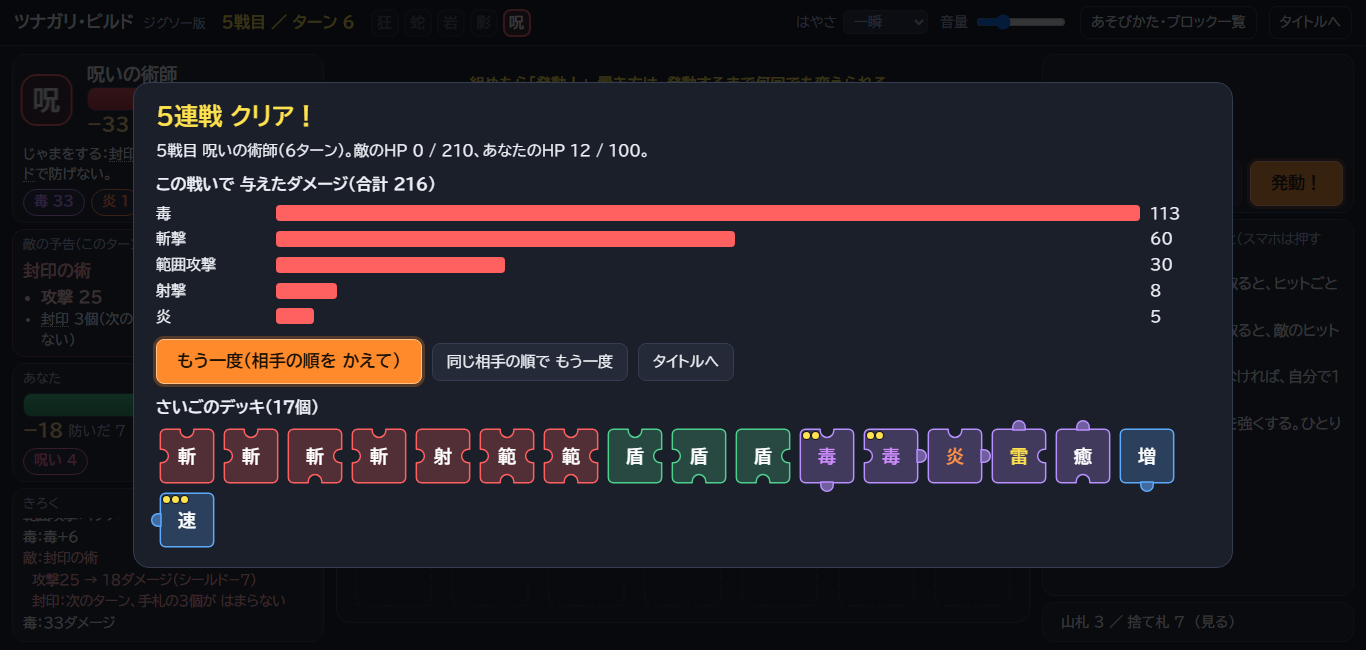
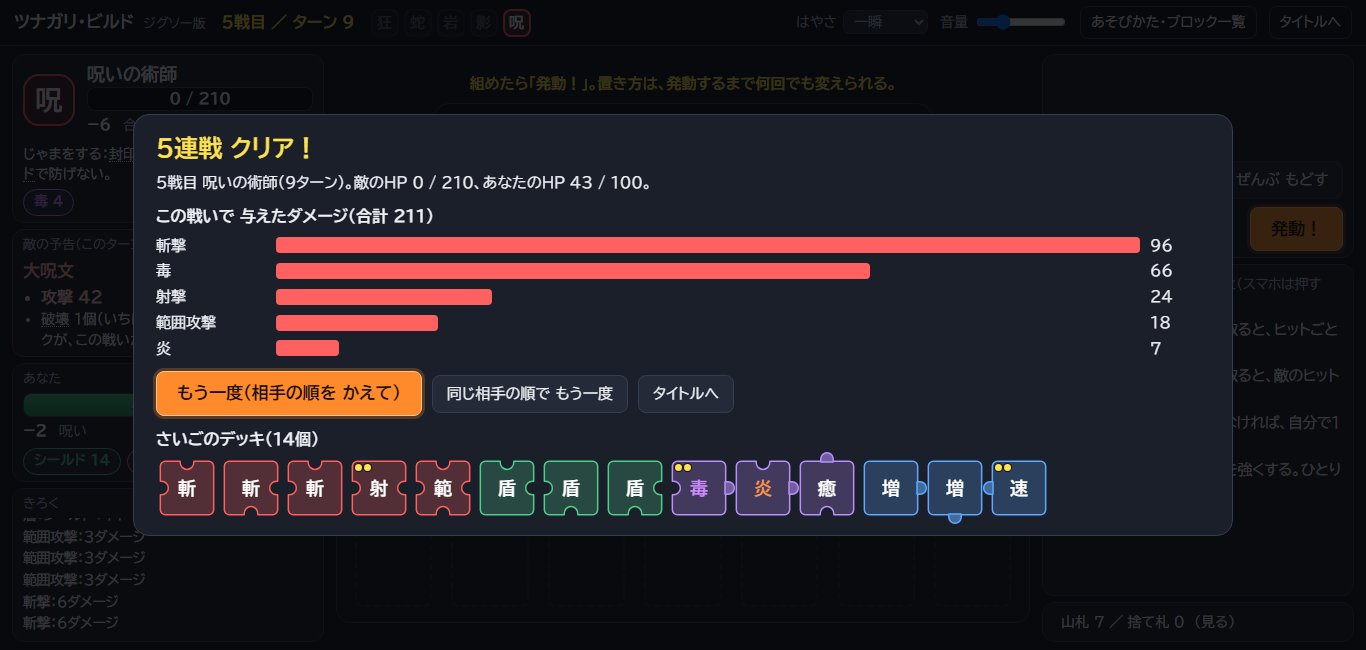
ブロックを いつでも回せるようにする（本人の答え 1A）。?rot=1 の切りかえは消して固定
- えらんだブロックを もう一度押す・右クリック・R キー・「回す ↻」ボタンで、時計回りに90度
- ごほうびの「はまる凹：デッキに○か所」は、回せると意味がないので、系統の説明に置きかえ
- 自動プレイも、人と同じ操作（えらんで もう一度押す）で回す。回す操作の検査場面を足した
- 敵の強さは まだ合わせていない（このあと）

diff --git a/ui.js b/ui.js
@@ -1,8 +1,8 @@
 /*
  * ui.js — 画面（ジグソー版 v2）。ルール(rules.js)が返す出来事ログを再生するだけ。条件や数字は、ここで書き直さない。
- * URL: ?seed=数 / ?enemy=golem|hunter|hydra|mage|berserk（1戦だけ。&stage=0〜4）/ ?speed=0 / ?mute=1 / ?rot=1（ブロックを回せる。くらべる用）
+ * URL: ?seed=数 / ?enemy=golem|hunter|hydra|mage|berserk（1戦だけ。&stage=0〜4）/ ?speed=0 / ?mute=1
  *      ?hp=数（れんしゅうを そのHPで始める。検査用）
- *      ?auto=1（ボットが画面を通して遊ぶ・無音）&bot=smart|random… &picks=sim（ごほうびを ためしてから選ぶ）&stop=ターン &pick=1 &screen=reward|remove|help|deck|tip（&tip=キー）&scene=thorn（攻撃を1個だけ置く）| terms（ことばの説明を全部 出す）
+ *      ?auto=1（ボットが画面を通して遊ぶ・無音）&bot=smart|random… &picks=sim（ごほうびを ためしてから選ぶ）&stop=ターン &pick=1 &screen=reward|remove|help|deck|tip（&tip=キー）&scene=thorn（攻撃を1個だけ置く）| terms（ことばの説明を全部 出す）| rotate（回す操作）
  */
 (function () {
   'use strict';
@@ -10,7 +10,7 @@
   const $ = s => document.querySelector(s);
   const el = (tag, cls, html) => { const e = document.createElement(tag); if (cls) e.className = cls; if (html != null) e.innerHTML = html; return e; };
   const Q = new URLSearchParams(location.search);
-  const AUTO = Q.get('auto') === '1', MUTE = AUTO || Q.get('mute') === '1', ROT = Q.get('rot') === '1';
+  const AUTO = Q.get('auto') === '1', MUTE = AUTO || Q.get('mute') === '1';
   const STOP = Q.has('stop') ? +Q.get('stop') : 0, SCREEN = Q.get('screen') || '';
   const FAM_COLOR = { atk: 'var(--atk)', def: 'var(--def)', abil: 'var(--abil)', enh: 'var(--enh)' };
   const SRC_NAMES = { fire: '炎', chase: '追撃', consume: '毒消費', poison: '毒', shock: '感電', mirror: '反射', charge: 'たまり' };
@@ -20,7 +20,7 @@
     speed: Q.has('speed') ? +Q.get('speed') : (AUTO ? 0 : 1), seed: Q.has('seed') ? (+Q.get('seed') | 0) : ((Date.now() % 90000) + 1),
     turnSum: { e: 0, p: 0 }, gone: {},
   };
-  const CHECK = { turns: 0, fights: 0, mismatches: [], errors: [], done: false, stopped: false, result: null, linkChecks: 0, spotChecks: 0, tipChecks: 0, tipSeen: {}, screens: {},
+  const CHECK = { rotates: 0, turns: 0, fights: 0, mismatches: [], errors: [], done: false, stopped: false, result: null, linkChecks: 0, spotChecks: 0, tipChecks: 0, tipSeen: {}, screens: {},
                   layout: { samples: 0, overlaps: 0, offscreen: 0, clipped: 0, pageScroll: 0, notes: [] } };
   window.__check = CHECK; window.__G = G;
   window.addEventListener('error', e => CHECK.errors.push(String(e.message)));
@@ -114,7 +114,7 @@
   const lvOf = type => R.lvOf(D() ? D().lv : (G.run ? G.run.lv : {}), type);
 
   // ------------------------------------------------------------ タイトル
-  function previewOrder() { return R.newRun(G.seed, { rot: ROT }).order; }
+  function previewOrder() { return R.newRun(G.seed).order; }
   function renderTitle() {
     const rules = $('#title-rules'); rules.innerHTML = '';
     const RULES = [
@@ -142,16 +142,15 @@
     renderTitle();
   }
   function startRun() {
-    G.mode = 'run'; G.run = R.newRun(G.seed, { rot: ROT }); G.s = G.run.fight; enterBattle();
+    G.mode = 'run'; G.run = R.newRun(G.seed); G.s = G.run.fight; enterBattle();
   }
   function startOne(id, stage) {
     G.mode = 'one'; G.run = null;
-    G.s = R.newFight({ enemyId: id, stage: stage || 0, seed: G.seed, rot: ROT, hp: Q.has('hp') ? Math.max(1, +Q.get('hp') | 0) : 0 }); enterBattle(); // ?hp=数 … 検査用
+    G.s = R.newFight({ enemyId: id, stage: stage || 0, seed: G.seed, hp: Q.has('hp') ? Math.max(1, +Q.get('hp') | 0) : 0 }); enterBattle(); // ?hp=数 … 検査用
   }
   function enterBattle() {
     G.sel = null; G.busy = false; G.view = null; G.pre = null; G.turnSum = { e: 0, p: 0 }; G.hoverId = null;
     $('#title-screen').hidden = true; $('#battle').hidden = false; $('#sheet').hidden = true; $('#btn-quit').hidden = false;
-    $('#btn-rot').hidden = !ROT;
     $('#log').innerHTML = ''; $('#enemy-dmg').innerHTML = ''; $('#player-dmg').innerHTML = '';
     const e = R.ENEMIES[G.s.enemyId];
     $('#enemy-glyph').textContent = e.g; $('#enemy-name').textContent = e.name; $('#enemy-trait').innerHTML = tipify(e.trait);
@@ -269,7 +268,7 @@
   function renderGuide() {
     const s = G.s; let t;
     if (G.busy) t = '発動中…';
-    else if (G.sel != null) t = '置くマスを押す。黄色いマスは「はまる」所（数字は はまる数）。';
+    else if (G.sel != null) t = '置くマスを押す。黄色いマスは「はまる」所（数字は はまる数）。えらんだブロックを もう一度押すと 回る（右クリック・R でも）。';
     else if (s.board.every(x => x == null)) t = '手札のブロックを 盤面に置こう（ドラッグ。または、えらんでからマスを押す）。';
     else t = '組めたら「発動！」。置き方は、発動するまで何回でも変えられる。';
     $('#guide').textContent = t;
@@ -300,7 +299,7 @@
   }
 
   // ------------------------------------------------------------ 操作（置き方は、発動するまで何回でも変えられる）
-  function uiSelect(id) { if (G.busy) return; G.sel = G.sel === id ? null : id; renderAll(); }
+  function uiSelect(id) { if (G.busy) return; if (G.sel === id) { uiRotate(); return; } G.sel = id; renderAll(); } // えらんだブロックを もう一度押すと回る
   function uiPut(id, cell) {
     if (G.busy) return false;
     const before = R.derive(G.s).links.filter(l => l.ok).length;
@@ -313,7 +312,14 @@
   }
   function uiTake(id) { if (G.busy || !R.take(G.s, id)) return false; G.sel = null; renderAll(); return true; }
   function uiClear() { if (G.busy) return; R.clearBoard(G.s); G.sel = null; renderAll(); }
-  function uiRotate() { if (G.busy || G.sel == null) return; if (R.rotate(G.s, G.sel)) renderAll(); }
+  function uiRotate(id) {
+    if (id == null) id = G.sel;
+    if (G.busy || id == null || !R.rotate(G.s, id)) return false;
+    renderAll(); sfx('place');
+    const p = document.querySelector(`#board .pc[data-id="${id}"], #hand .pc[data-id="${id}"]`); if (p) p.classList.add('fx-turn');
+    if (drag && drag.on && drag.id === id) { const g = $('#drag-ghost'); g.innerHTML = ''; g.appendChild(pieceEl(G.s.cards[id], { lv: lvOf(G.s.cards[id].type) })); }
+    return true;
+  }
   function clickPiece(id) {
     if (G.busy) return;
     const cell = R.cellOf(G.s, id);
@@ -367,6 +373,7 @@
     if (G.busy || Date.now() - lastDragEnd < 250) return;
     const p = ev.target.closest('.pc'); if (p) { clickPiece(+p.dataset.id); return; }
     if (G.sel != null && R.cellOf(G.s, G.sel) >= 0) uiTake(G.sel); // 盤面のブロックをえらんで手札の所を押す：もどす
+    else if (G.sel != null) { G.sel = null; renderAll(); } // 手札のすきまを押す：えらぶのをやめる
   });
   // のせたら説明、マスにのせたら予想の変化
   document.addEventListener('pointerover', ev => {
@@ -379,7 +386,12 @@
   });
   $('#btn-end').addEventListener('click', () => doEnd());
   $('#btn-clear').addEventListener('click', uiClear);
-  $('#btn-rot').addEventListener('click', uiRotate);
+  $('#btn-rot').addEventListener('click', () => uiRotate());
+  // 右クリックで回す（えらんでいなくても、そのブロックが回る）
+  document.addEventListener('contextmenu', ev => {
+    const p = ev.target.closest && ev.target.closest('#board .pc, #hand .pc'); if (!p || !G.s) return;
+    ev.preventDefault(); if (!G.busy) uiRotate(+p.dataset.id);
+  });
   $('#btn-quit').addEventListener('click', showTitle);
   $('#btn-start').addEventListener('click', startRun);
   $('#btn-reroll').addEventListener('click', () => { G.seed = (G.seed * 7 + 13) % 90000 + 1; renderTitle(); });
@@ -389,7 +401,7 @@
   $('#vol').addEventListener('input', e => { vol = +e.target.value / 100; });
   document.addEventListener('keydown', e => {
     if (e.key === 'Escape') { $('#help').hidden = true; if (G.s && !G.busy && $('#sheet').dataset.kind === 'deck') $('#sheet').hidden = true; if (G.s && !G.busy) { G.sel = null; renderAll(); } }
-    if ((e.key === 'r' || e.key === 'R') && ROT) uiRotate();
+    if (e.key === 'r' || e.key === 'R') uiRotate(drag && drag.on ? drag.id : null);
   });
   window.addEventListener('resize', () => { if (G.s && !$('#battle').hidden) renderAll(); });
   if (Q.has('speed')) { const o = [...$('#speed').options].find(x => +x.value === G.speed); if (o) $('#speed').value = o.value; }
@@ -506,13 +518,12 @@
       const c = el('button', 'opt'); c.dataset.opt = i;
       const top = el('div', 'otop'), op = el('div', 'op'); op.appendChild(pieceEl({ type: o.type, rot: o.up ? 0 : o.rot }, { lv: o.up ? o.lv : cur, name: false }));
       top.appendChild(op);
-      const fit = o.up ? null : R.fitCount(run.deck, o);
       top.appendChild(el('div', '', `<div class="ok">${o.up ? `レベルアップ Lv${cur} → Lv${o.lv}` : '新しいブロック'}</div><div class="on">${def.name} <span class="fam" style="background:${FAM_COLOR[def.fam]}">${R.FAMS[def.fam]}</span></div>`));
       c.appendChild(top);
       c.appendChild(el('div', 'ot', tipify(R.blockText(o.type, o.up ? o.lv : cur))));
       if (def.kw) c.appendChild(el('div', 'os', `${R.KW[def.kw].name}：${R.KW[def.kw].text}`));
       c.appendChild(el('div', 'os', o.up ? `デッキの${def.name}（${run.deck.filter(k => k.type === o.type).length}個）が ぜんぶ強くなる。前：${R.blockText(o.type, cur)}`
-        : def.fam === 'atk' || def.fam === 'def' ? `この凹に はまる凸：デッキに ${fit.take}個` : `この凸が はまる凹：デッキに ${fit.give}か所`));
+        : R.FAM_HINT[def.fam]));
       c.addEventListener('click', () => pickReward(i));
       body.querySelector('#opts').appendChild(c);
     });
@@ -676,7 +687,7 @@
   }
   // 「はまるマスの数字」を1つ えらんで、本当に置いて、その数だけ はまるかを見る
   function checkSpot(id, cell) {
-    uiSelect(id);
+    if (G.sel !== id) uiSelect(id); // もう えらんでいれば そのまま（もう一度押すと回ってしまう）
     const c = cellEl(cell), shown = c && c.classList.contains('lk-good') ? +c.dataset.spot : 0;
     uiPut(id, cell);
     const d = R.derive(G.s), real = d.links.filter(l => l.ok && (l.from === cell || l.to === cell)).length;
@@ -700,6 +711,20 @@
           R.put(s, s.hand[0], 11); renderAll(); checkTips(true); sampleLayout();
           CHECK.stopped = true; writeCheck(); return;
         }
+        if (Q.get('scene') === 'rotate') { // 決まった場面：回す操作3つ（右クリック・R キー・「回す」ボタン）と、もう一度押す
+          const id = s.hand[0], r0 = s.cards[id].rot, want = k => (r0 + k) & 3;
+          const p = () => document.querySelector(`#hand .pc[data-id="${id}"]`);
+          p().dispatchEvent(new MouseEvent('contextmenu', { bubbles: true, cancelable: true }));
+          if (s.cards[id].rot !== want(1)) miss('右クリックで回らない');
+          if (G.sel != null) miss('右クリックで えらんだことになった');
+          uiSelect(id); document.dispatchEvent(new KeyboardEvent('keydown', { key: 'r', bubbles: true }));
+          if (s.cards[id].rot !== want(2)) miss('R キーで回らない');
+          $('#btn-rot').click(); if (s.cards[id].rot !== want(3)) miss('「回す」ボタンで回らない');
+          p().click(); if (s.cards[id].rot !== want(4) || G.sel !== id) miss('えらんだブロックを もう一度押しても回らない');
+          // 回したブロックを置くと、回した向きで はまる（盤面の凸の印と計算が同じ）
+          uiPut(id, 6); checkBoardDisplay(); sampleLayout();
+          CHECK.rotateScene = { ok: true, rot: s.cards[id].rot }; CHECK.stopped = true; writeCheck(); return;
+        }
         let L = Bot.search(s, { style });
         if (Q.get('scene') === 'thorn') { // 決まった場面：攻撃ブロックを1個だけ置く（HP1 で狂戦士をなぐると、敵が動く前にトゲで負ける）
           const id = s.hand.find(x => R.B[s.cards[x].type].fam === 'atk'); L = { board: new Array(R.N).fill(null), rots: {} }; if (id != null) L.board[6] = id;
@@ -707,7 +732,11 @@
         R.clearBoard(s); renderAll();
         for (let cell = 0; cell < R.N; cell++) {
           const id = L.board[cell]; if (id == null) continue;
-          if (ROT && L.rots[id] != null) { let g = 0; while (s.cards[id].rot !== L.rots[id] && g++ < 4) R.rotate(s, id); }
+          if (L.rots[id] != null && s.cards[id].rot !== L.rots[id]) { // 人と同じ操作で回す：えらんで、もう一度押す
+            if (G.sel !== id) uiSelect(id);
+            let g = 0; while (s.cards[id].rot !== L.rots[id] && g++ < 4) { clickPiece(id); CHECK.rotates++; }
+            if (s.cards[id].rot !== L.rots[id]) miss(`もう一度押しても回らない（札${id}）`);
+          }
           checkSpot(id, cell);
         }
         checkBoardDisplay(); sampleLayout();

diff --git a/rules.js b/rules.js
@@ -420,13 +420,13 @@
   }
 
   // ---------------------------------------------------------------- 1戦の状態
-  // o: { enemyId, stage, deck:[[type,rot]|{type,rot}], seed, hp, rot（回せるか）, hand（引く数） }
+  // o: { enemyId, stage, deck:[[type,rot]|{type,rot}], seed, hp, hand（引く数） }
   function newFight(o) {
     const def = ENEMIES[o.enemyId], stage = o.stage || 0;
     const cards = (o.deck || START_DECK).map((c, id) => (Array.isArray(c) ? { id, type: c[0], rot: c[1] & 3 } : { id, type: c.type, rot: c.rot & 3 }));
     const hp = Math.round(def.hp * STAGE_HP[stage]);
     const s = {
-      rs: (o.seed | 0) || 1, enemyId: o.enemyId, stage, turn: 0, phase: 'place', canRot: !!o.rot, handSize: o.hand || HAND, lv: o.lv || {},
+      rs: (o.seed | 0) || 1, enemyId: o.enemyId, stage, turn: 0, phase: 'place', handSize: o.hand || HAND, lv: o.lv || {},
       cards, deck: [], discard: [], gone: [], hand: [], board: new Array(N).fill(null),
       sealed: [], blocked: [], sealNext: 0, blockNext: [], drawBonus: 0,
       p: { hp: o.hp || MAXHP, max: MAXHP, shield: 0, curse: 0, charge: 0, chargeNext: 0 },
@@ -441,7 +441,7 @@
   }
   function cloneState(s) {
     const c = Object.assign({}, s);
-    c.cards = s.canRot ? s.cards.map(k => ({ id: k.id, type: k.type, rot: k.rot })) : s.cards; // 回さないなら札は書きかえないので共有
+    c.cards = s.cards.map(k => ({ id: k.id, type: k.type, rot: k.rot })); // 向きは回すと変わるので写す
     c.deck = s.deck.slice(); c.discard = s.discard.slice(); c.gone = s.gone.slice(); c.hand = s.hand.slice(); c.board = s.board.slice();
     c.sealed = s.sealed.slice(); c.blocked = s.blocked.slice(); c.blockNext = s.blockNext.slice();
     c.p = Object.assign({}, s.p); c.e = Object.assign({}, s.e);
@@ -494,8 +494,8 @@
   }
   function take(s, id) { const c = s.board.indexOf(id); if (s.phase !== 'place' || c < 0) return false; s.board[c] = null; return true; }
   function clearBoard(s) { if (s.phase !== 'place') return false; s.board = new Array(N).fill(null); return true; }
-  function rotate(s, id) { // ?rot=1 のときだけ（くらべる用）
-    if (!s.canRot || s.phase !== 'place' || s.hand.indexOf(id) < 0) return false;
+  function rotate(s, id) { // 手札のブロック（盤面に置いたものも）を 時計回りに90度。発動するまで何回でも
+    if (s.phase !== 'place' || s.hand.indexOf(id) < 0) return false;
     s.cards[id].rot = (s.cards[id].rot + 1) & 3; return true;
   }
   // 置く前に見せる用：id を cell に置いたら、そのブロックに はまる所（効く・効かない）
@@ -693,14 +693,14 @@
   // run.phase: 'fight' | 'reward'（ブロックをえらぶ）| 'remove'（1個はずす）| 'won' | 'lost'
   function newRun(seed, o) {
     o = o || {};
-    const run = { rs: ((seed | 0) || 1) ^ 0x5bd1e995, seed: (seed | 0) || 1, stage: 0, hp: MAXHP, max: MAXHP, canRot: !!o.rot, handSize: o.hand || HAND,
+    const run = { rs: ((seed | 0) || 1) ^ 0x5bd1e995, seed: (seed | 0) || 1, stage: 0, hp: MAXHP, max: MAXHP, handSize: o.hand || HAND,
                   deck: START_DECK.map(c => ({ type: c[0], rot: c[1] })), order: [], phase: 'fight', fight: null, reward: null, lv: {}, added: [], removed: [], ups: [] };
     run.order = o.order || shuffle(run, ENEMY_IDS.slice());
     startFight(run);
     return run;
   }
   function startFight(run) {
-    run.fight = newFight({ enemyId: run.order[run.stage], stage: run.stage, deck: run.deck, lv: Object.assign({}, run.lv), seed: run.seed * 31 + run.stage * 7919 + 17, hp: run.hp, rot: run.canRot, hand: run.handSize });
+    run.fight = newFight({ enemyId: run.order[run.stage], stage: run.stage, deck: run.deck, lv: Object.assign({}, run.lv), seed: run.seed * 31 + run.stage * 7919 + 17, hp: run.hp, hand: run.handSize });
     run.phase = 'fight';
   }
   // ごほうび3つ。もっている種類は、半分の確率で「レベルアップ」（その種類ぜんぶが強くなる）になる。それ以外は新しいブロック（向きは でたらめ）。
@@ -737,18 +737,6 @@
     run.stage++; startFight(run);
     return true;
   }
-  // デッキの中で、このブロックの凸が はまる凹の数（give）と、このブロックの凹に はまる凸の数（take）。えらぶ画面の めやす。
-  function fitCount(deck, card) {
-    const e = edges(card.type, card.rot); let give = 0, take = 0;
-    for (const c of deck) {
-      const x = edges(c.type, c.rot);
-      for (let sd = 0; sd < 4; sd++) {
-        if (e[sd] === 1 && x[(sd + 2) % 4] === -1) give++;
-        if (e[sd] === -1 && x[(sd + 2) % 4] === 1) take++;
-      }
-    }
-    return { give, take };
-  }
 
   return {
     W, H, N, HAND, MAXHP, SHOCK_AT, SHOCK_DMG, FREEZE_AT, COUNTER_MAX, STAGES, PICKS, HEAL_AFTER, STAGE_HP, STAGE_ATK,
@@ -756,6 +744,6 @@
     blockText, maxLv, lvOf, val, edges, accepts, derive, destroyTargets, giftText, summary, intentLines,
     newFight, cloneState, beginTurn, makeIntent, cellOf, canPut, put, take, clearBoard, rotate, linksIfPut,
     resolve, endTurn, forecast,
-    newRun, startFight, finishFight, pickReward, removeCard, rollReward, fitCount,
+    newRun, startFight, finishFight, pickReward, removeCard, rollReward,
   };
 });

diff --git a/check.js b/check.js
@@ -61,6 +61,7 @@ async function main() {
     add(sn, w, h, pc, '4ターン目で止める（組んだ盤面）', 'auto=1&speed=0&seed=11&stop=4', { stop: true, shot: 'board' });
     add(sn, w, h, pc, 'ブロックをえらんだ画面（はまるマスの表示）', 'auto=1&speed=0&seed=11&stop=2&pick=1', { stop: true, pick: true, shot: 'pick' });
     add(sn, w, h, pc, 'ごほうびの画面', 'auto=1&speed=0&seed=11&screen=reward', { stop: true, screen: 'reward', shot: 'reward' });
+    add(sn, w, h, pc, '回す操作（右クリック・R・ボタン・もう一度押す）', 'auto=1&speed=0&seed=11&scene=rotate', { stop: true, rotate: true });
     add(sn, w, h, pc, 'ことばの説明（結界にのせた画面）', 'auto=1&speed=0&seed=11&stop=4&screen=tip&tip=guard', { stop: true, tip: 'guard', shot: 'tip' });
     if (lite) continue;
     add(sn, w, h, pc, 'はずす画面', 'auto=1&speed=0&seed=11&screen=remove', { stop: true, screen: 'remove', shot: 'remove' });
@@ -71,7 +72,6 @@ async function main() {
       if (!quick) for (const seed of [222, 3333]) add(sn, w, h, pc, `5連戦 種${seed}（決着まで。途中で負けてもよい）`, `auto=1&speed=0&seed=${seed}`, { play: true });
       if (!quick) add(sn, w, h, pc, '5連戦 種3 クリアまで（5戦ぜんぶ）', 'auto=1&speed=0&seed=3&picks=sim', { play: true, clear: true });
       for (const id of (quick ? ['mage'] : ENEMIES)) add(sn, w, h, pc, `れんしゅう ${id}（3戦目の強さ）`, `auto=1&speed=0&seed=11&enemy=${id}&stage=2`, { play: true, shot: 'one-' + id });
-      add(sn, w, h, pc, '回せる設定（?rot=1）通し', 'auto=1&speed=0&seed=11&rot=1', { play: true });
       // 敵が動く前に負ける（HP1 で、攻撃ブロックを1個だけ置いて狂戦士をなぐる → トゲで負け）。負けの画面の文を見る
       // ことばの説明を全部 出す場面（状態と予告を直接つくる）。3体で、装甲・身かわし・トゲの説明も出す
       for (const id of ['golem', 'hunter', 'berserk']) add(sn, w, h, pc, `ことばの説明を全部 出す（${id}）`, `auto=1&speed=0&seed=11&enemy=${id}&scene=terms`, { stop: true, terms: true, shot: id === 'golem' ? 'terms' : null });
@@ -99,6 +99,8 @@ async function main() {
       if (c.early && !(k.result && k.result.lastAct === null && /敵が動く前に負けた/.test(k.result.lastText || ''))) bad.push(`敵が動く前に負けたのに、負けの画面の文がちがう（${k.result ? k.result.lastText : ''}）`);
       if (c.lose && !c.early && !(k.result && k.result.lastAct && (k.result.lastText || '').indexOf('さいごの敵の行動：' + k.result.lastAct) >= 0)) bad.push(`負けの画面に「さいごの敵の行動」が出ていない（${k.result ? k.result.lastText : ''}）`);
       if (c.play && !(k.linkChecks > 0 && k.spotChecks > 0 && k.turns > 0)) bad.push('盤面の表示の検査が、1回も動かなかった');
+      if (c.rotate && !(k.rotateScene && k.rotateScene.ok)) bad.push('回す操作の場面が最後まで行かなかった');
+      if (c.play && !c.lose && !(k.rotates > 0)) bad.push('通しで、もう一度押して回す操作が1回も起きなかった');
       if (c.pick && !(k.picked && k.picked.spots > 0)) bad.push('はまるマスの表示が出ていない');
       if (c.screen && !(k.screens && k.screens[c.screen] > 0)) bad.push(`「${c.screen}」の画面が開いていない`);
       if (c.tip && !(k.tipShown && k.tipShown.key === c.tip && !k.tipShown.hidden && k.tipShown.text.indexOf('結界') === 0 && k.tipShown.text.length > 10)) bad.push(`ことばの説明が出ていない（${JSON.stringify(k.tipShown)}）`);

diff --git a/botcore.js b/botcore.js
@@ -63,7 +63,7 @@
     }
     const base = style === 'blind' ? blindCopy(s) : R.cloneState(s);
     const s0 = style === 'blind' ? base : s;
-    const canRot = !!s.canRot, rotN = canRot ? 4 : 1;
+    const canRot = true, rotN = 4; // ブロックは いつでも回せる
     const restarts = opt.restarts || 3, passes = opt.passes || 3;
     let best = null;
     const nbFree = i => R.NB[i].filter(j => j >= 0 && free.indexOf(j) >= 0).length;
@@ -131,7 +131,7 @@
     R.clearBoard(s);
     for (let cell = 0; cell < N; cell++) {
       const id = L.board[cell]; if (id == null) continue;
-      if (s.canRot && L.rots[id] != null) { let g = 0; while (s.cards[id].rot !== L.rots[id] && g++ < 4) R.rotate(s, id); }
+      if (L.rots[id] != null) { let g = 0; while (s.cards[id].rot !== L.rots[id] && g++ < 4) R.rotate(s, id); }
       R.put(s, id, cell);
     }
   }
@@ -162,7 +162,7 @@
   function trial(run, deck, opt, lv) {
     const next = run.stage + 1, enemyId = run.order[next], K = opt.simFights || 3; let sc = 0;
     for (let k = 0; k < K; k++) {
-      const f = R.newFight({ enemyId, stage: next, deck, lv: lv || run.lv, seed: run.seed * 131 + next * 17 + k * 7 + 3, hp: run.hp, rot: run.canRot, hand: run.handSize });
+      const f = R.newFight({ enemyId, stage: next, deck, lv: lv || run.lv, seed: run.seed * 131 + next * 17 + k * 7 + 3, hp: run.hp, hand: run.handSize });
       playFight(f, { style: 'smart', restarts: 1, passes: 1, maxTurns: 14 });
       sc += f.phase === 'won' ? 200 + f.p.hp - f.turn : -(f.e.hp / f.e.max) * 100;
     }
@@ -192,7 +192,7 @@
   // 5連戦を最後まで自動で遊ぶ
   function playRun(seed, opt) {
     opt = opt || {};
-    const run = R.newRun(seed, { rot: opt.rot, hand: opt.hand, order: opt.order }), rand = lcg(seed * 977 + 5);
+    const run = R.newRun(seed, { hand: opt.hand, order: opt.order }), rand = lcg(seed * 977 + 5);
     const fights = [];
     let guard = 0;
     while (guard++ < 50) {

diff --git a/style.css b/style.css
@@ -166,6 +166,8 @@ a { color: inherit; }
 .pc.fx-break { animation: fx-break .5s ease-in forwards; }
 @keyframes fx-break { 0% { transform: scale(1); } 100% { transform: scale(.4) rotate(18deg); opacity: .3; } }
 .pc.fx-new { animation: fx-new .18s ease-out; }
+.pc.fx-turn { animation: fx-turn .16s ease-out; }
+@keyframes fx-turn { 0% { transform: rotate(-90deg) scale(.9); } 100% { transform: none; } }
 @keyframes fx-new { 0% { transform: scale(.8); } 100% { transform: scale(1); } }
 #board .pc, #hand .pc { --ps: var(--cell); }
 #drag-ghost { position: fixed; z-index: 99; pointer-events: none; width: var(--cell); height: var(--cell); transform: translate(-50%, -50%); opacity: .92; }

diff --git a/index.html b/index.html
@@ -90,7 +90,7 @@
       <div id="forecast-box" class="panel">
         <div id="forecast"></div>
         <div id="actions">
-          <button id="btn-rot" class="btn" hidden>回す</button>
+          <button id="btn-rot" class="btn" title="えらんだブロックを 時計回りに回す（右クリック・R でも）">回す ↻</button>
           <button id="btn-clear" class="btn">ぜんぶ もどす</button>
           <button id="btn-end" class="btn primary">発動！</button>
         </div>
